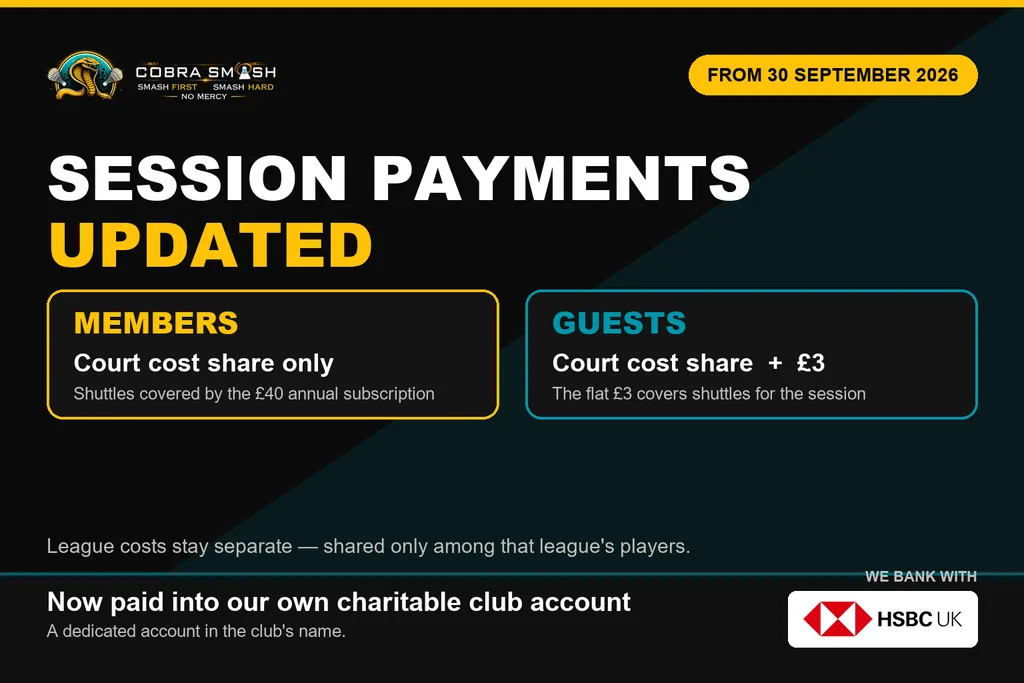
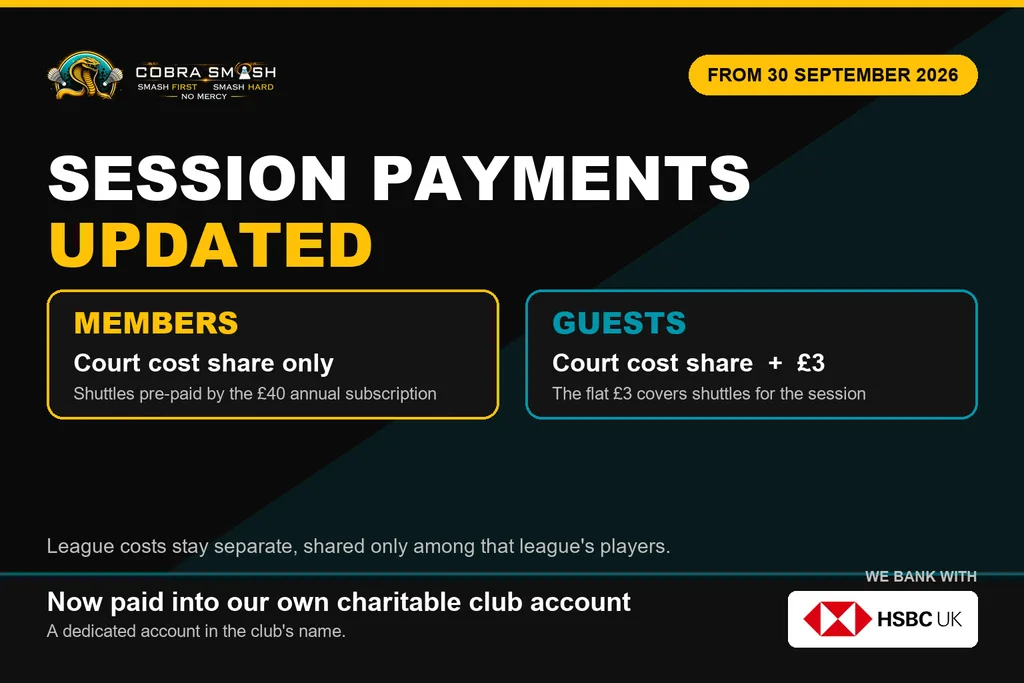
Keep Latest Buzz in date order and simplify the Session Costs card
Moves the payment announcement below the 8 October match result in both
news.json and slider.json, so cards and slides stay newest first.

Shortens the Session Costs card to "court share only (shuttles
pre-paid)" for members and the guest line with an approximate £11 to £13
per session, and rewrites the em dashes out of the new copy so it reads
naturally.

Claude-Session: https://claude.ai/code/session_01R81d1Y9Go3jcfFFWcYHwUU

Changed region(s): [[0.2812, 0.7687, 0.6562, 0.8302], [0.125, 0.5534, 0.4375, 0.5842]]

diff --git a/public/index.html b/public/index.html
@@ -176,7 +176,7 @@
                 <div class="card-grid">
                     <div class="card"><h3><i class="fas fa-calendar-alt"></i> When We Play</h3><p>Every <strong>Wednesday</strong> evening</p><p><strong>Time:</strong> 7:00 PM to 9:00 PM</p></div>
                     <div class="card"><h3><i class="fas fa-map-marker-alt"></i> Our Venue</h3><p><strong>Location:</strong> National Badminton Centre (NBC)</p><p><em>(Bradwell Rd, Loughton, Milton Keynes MK8 9LA)</em></p></div>
-                    <div class="card"><h3><i class="fas fa-pound-sign"></i> Session Costs</h3><p>Pay-as-you-play, updated from <strong>30 September 2026</strong>.</p><p><strong>Members:</strong> your share of the court cost only — shuttles are covered by the <strong>£40</strong> annual subscription.</p><p><strong>Guests:</strong> court cost share, plus a flat <strong>£3</strong> for shuttles.</p><p>League costs are separate.</p></div>
+                    <div class="card"><h3><i class="fas fa-pound-sign"></i> Session Costs</h3><p>Pay-as-you-play, updated from <strong>30 September 2026</strong>.</p><p><strong>Members:</strong> court share only (shuttles pre-paid).</p><p><strong>Guests:</strong> court cost share, plus a flat <strong>£3</strong> for shuttles. <em>(approx. £11 to £13 a session)</em></p><p>League costs are separate.</p></div>
                 </div>
             </section>
 
@@ -203,7 +203,7 @@
                     <div class="faq-item">
                         <button class="faq-question">🏸 Can I just turn up and play?</button>
                         <div class="faq-answer">
-                            <p>Unfortunately, no. We have a limited number of court spaces available. All prospective players must first contact us to request a guest session using the "Join Us" section below. For the trial, you'll just join one of our regular sessions as a guest—it's a great way to get a feel for the group and see if it's a good fit. We do have a bit of a waiting list due to limited courts; however, with our guest rotation policy, if you're a good fit, we'll invite you to join as a guest whenever a spot opens up.</p>
+                            <p>Unfortunately, no. We have a limited number of court spaces available. All prospective players must first contact us to request a guest session using the "Join Us" section below. For the trial, you'll just join one of our regular sessions as a guest, which is a great way to get a feel for the group and see if it's a good fit. We do have a bit of a waiting list due to limited courts; however, with our guest rotation policy, if you're a good fit, we'll invite you to join as a guest whenever a spot opens up.</p>
                         </div>
                     </div>
                     <div class="faq-item">
@@ -222,7 +222,7 @@
                             <p><strong>Members:</strong> pay your share of the court cost for the session. Shuttles are already paid for through the <strong>£40</strong> annual subscription.</p>
                             <p><strong>Guests:</strong> pay your share of the court cost, plus a flat <strong>£3</strong> for shuttles.</p>
                             <p><strong>Leagues:</strong> league costs are separate from both, and shared only among the players in that league.</p>
-                            <p>Payments go into the club's own <a href="https://www.business.hsbc.uk/en-gb/products/charity-banking-community-account" target="_blank" rel="noopener">HSBC UK Charitable Bank Account</a>: a dedicated account in the club's name. We don't publish account details on the website — the Cobra Council shares them directly with members and guests.</p>
+                            <p>Payments go into the club's own <a href="https://www.business.hsbc.uk/en-gb/products/charity-banking-community-account" target="_blank" rel="noopener">HSBC UK Charitable Bank Account</a>: a dedicated account in the club's name. We don't publish account details on the website. The Cobra Council shares them directly with members and guests.</p>
                         </div>
                     </div>
                     <div class="faq-item">
@@ -284,7 +284,7 @@ offering competitive match play that provides consistent local visibility.
         Our reach also continues to grow online through <strong>Instagram, Facebook, and our
         Latest Buzz updates</strong>, engaging the local badminton community.
         <br><br>
-        Our <strong>non-profit model</strong> — a £40 annual member subscription alongside pay-as-you-play session costs —
+        Our <strong>non-profit model</strong>, a £40 annual member subscription alongside pay-as-you-play session costs,
         removes barriers to participation and ensures
         <strong>100% of sponsorship support</strong> goes directly into
         <strong>shuttles, league fees, and player development</strong>,
